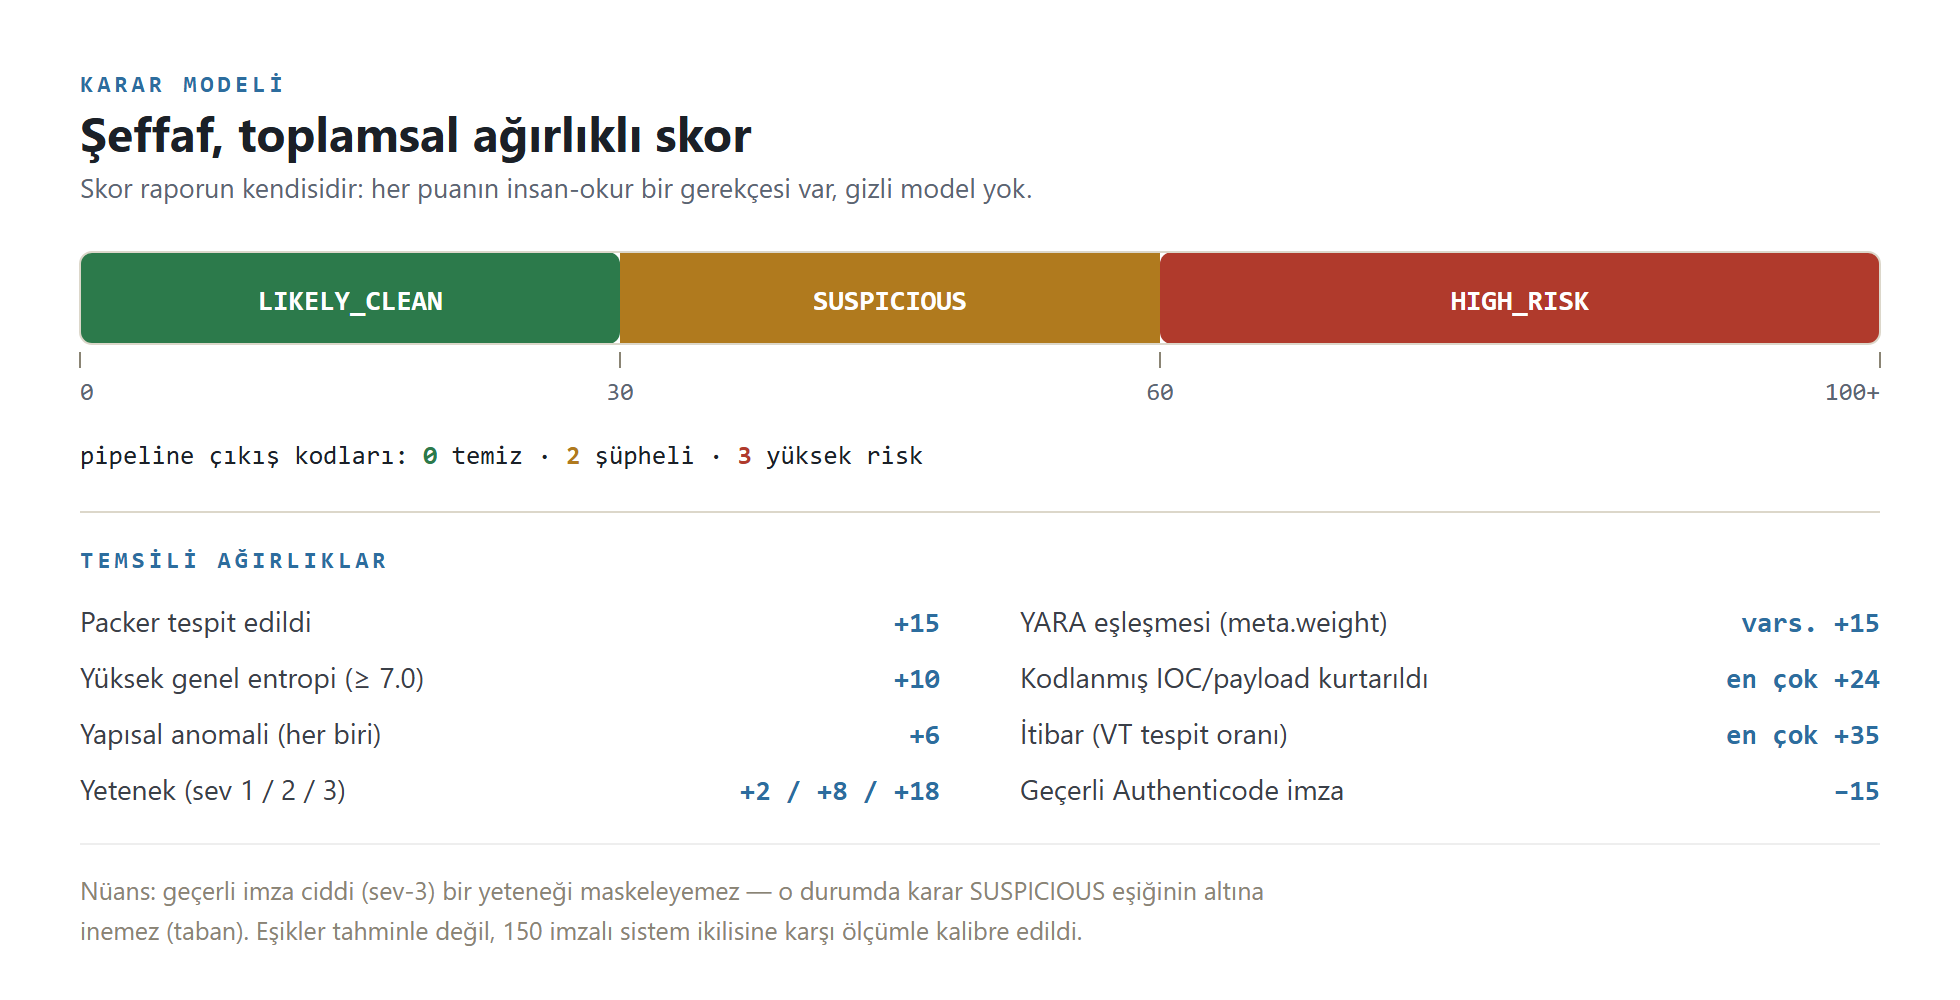
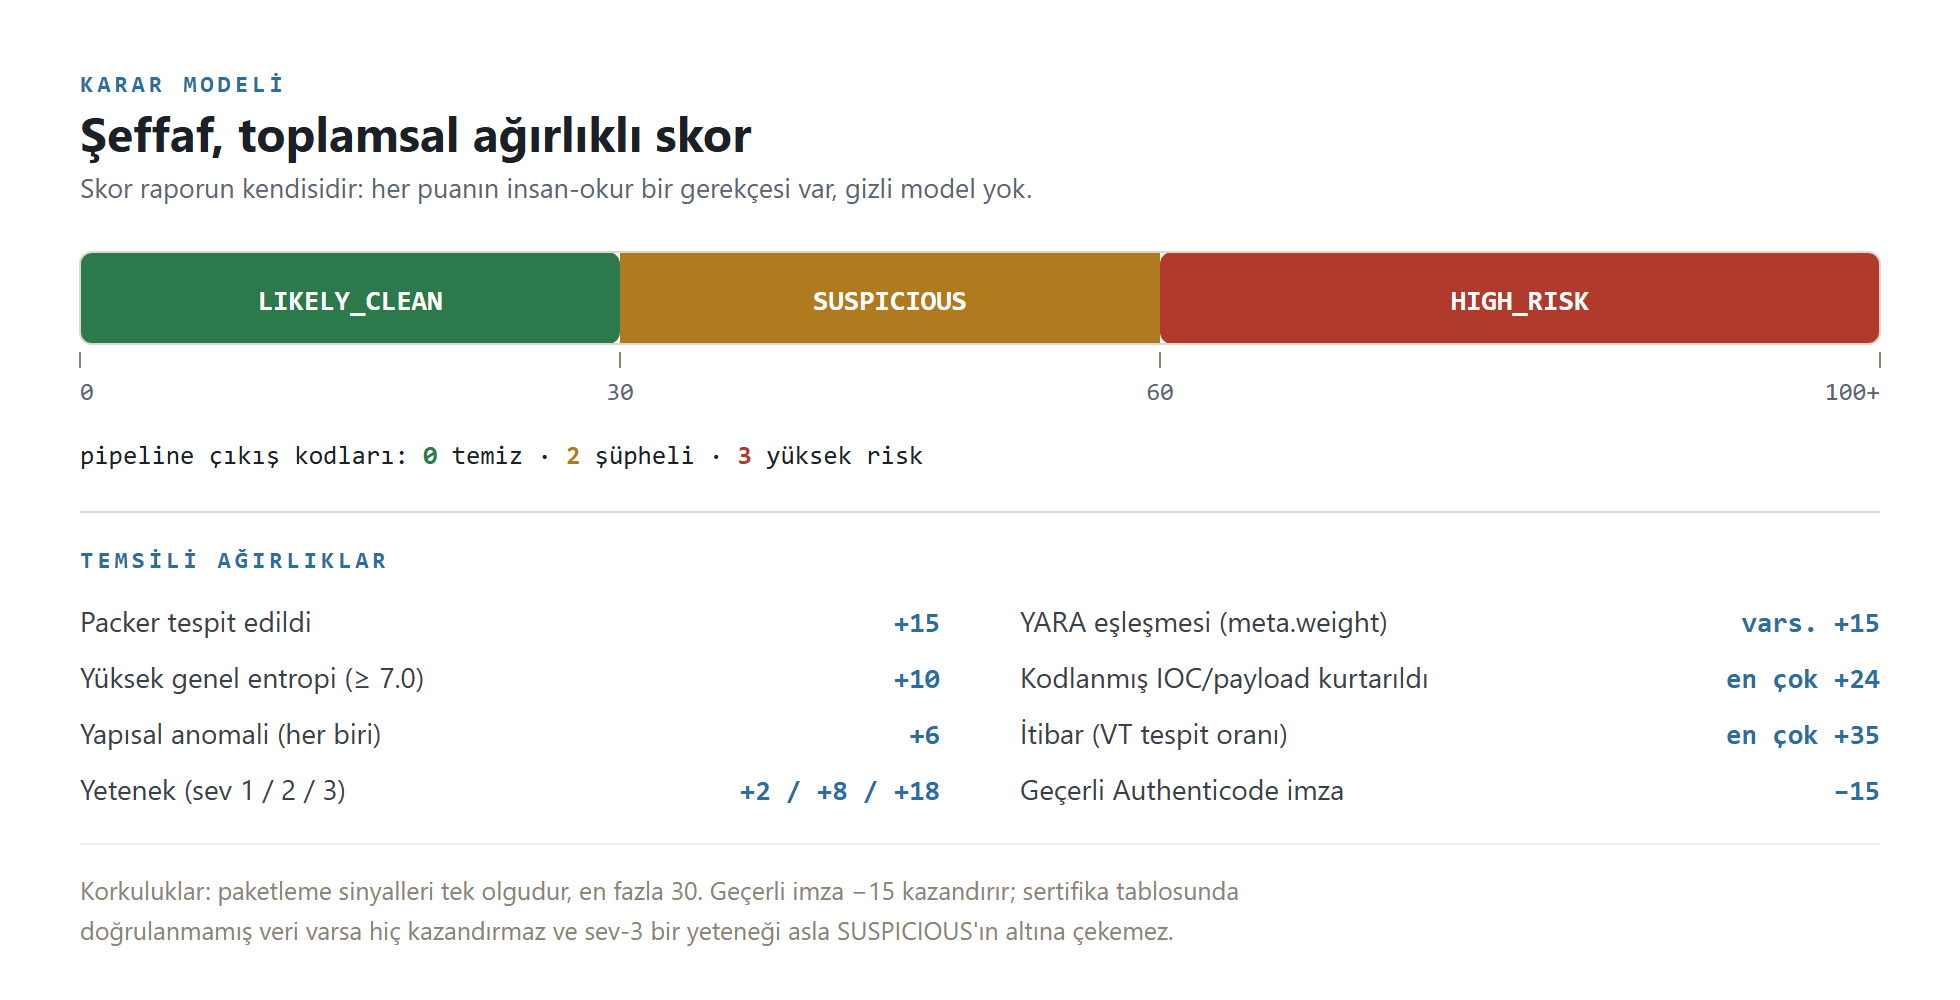
docs: v0.5.2 — honest limitations and corrected claims
- README: "What gokdogan does not do" (static-only; where capa, FLOSS,
  DIE, PEStudio and AssemblyLine go further; .NET blind spot; unmeasured
  accuracy; Windows-only signature checks; strict certificate-table
  checks)
- remove the false claim that the suite asserts mmc.exe is never
  HIGH_RISK (it never ran it, and it is); document the known FPs
- verdict tables describe the packing cap and signature rules; the -8
  row is gone
- counts, Python 3.10+, diagram footers/notes; CHANGELOG 0.5.2
- bump version to 0.5.2

Changed region(s): [[0.0311, 0.868, 0.6536, 0.961]]

diff --git a/docs/index.html b/docs/index.html
@@ -189,9 +189,9 @@ footer .mono{color:var(--faint)}
     </div>
 
     <div class="stats">
-      <div class="stat"><div class="n">~4.500</div><div class="l">satır Python · 31 modül</div></div>
-      <div class="stat"><div class="n">173</div><div class="l">test · gerçek binary entegrasyonu</div></div>
-      <div class="stat"><div class="n">0</div><div class="l">yanlış-pozitif · 150 temiz binary</div></div>
+      <div class="stat"><div class="n">~4.900</div><div class="l">satır Python · 31 modül</div></div>
+      <div class="stat"><div class="n">207</div><div class="l">test · gerçek binary entegrasyonu</div></div>
+      <div class="stat"><div class="n">0</div><div class="l">config-blob yanlış-pozitifi · 150 temiz binary</div></div>
       <div class="stat"><div class="n">133<span style="font-size:.6em;color:var(--muted)">ms</span></div><div class="l">kodlu string taraması (800 KB)</div></div>
     </div>
   </div>
@@ -364,7 +364,9 @@ footer .mono{color:var(--faint)}
         <tr><td>Capability (şiddet 1 / 2 / 3)</td><td class="num pos">+2 / +8 / +18</td></tr>
         <tr><td>YARA eşleşmesi (kural meta.weight)</td><td class="num pos">+15</td></tr>
         <tr><td>Kurtarılmış kodlu IOC / payload</td><td class="num pos">+24'e kadar</td></tr>
-        <tr><td>Gömülü Authenticode imzası (doğrulanmamış)</td><td class="num neg">−8</td></tr>
+        <tr><td>Geçerli Authenticode imzası (sertifika tablosunda doğrulanmamış veri varsa 0)</td><td class="num neg">−15</td></tr>
+        <tr><td>İmza var ama geçerli değil (self-signed, süresi dolmuş)</td><td class="num">0</td></tr>
+        <tr><td>Paketleme sinyalleri birlikte (packer, entropi, packer YARA, stub)</td><td class="num">en fazla 30</td></tr>
       </table>
     </div>
     <p class="sec-intro" style="margin-top:20px">Eşikler: <b style="font-family:var(--mono)">SUSPICIOUS ≥ 30</b>,
@@ -378,10 +380,10 @@ footer .mono{color:var(--faint)}
     <span class="eyebrow">Test &amp; teknoloji</span>
     <h2>Doğrulama ve yığın</h2>
     <div class="grid2">
-      <div class="card"><span class="k">173 test · ~1.900 satır</span><h3>Gerçek binary'lere karşı</h3>
-        <p>Birim testleri her analizciyi sentetik girdilerle izole eder (elle üretilmiş XOR/base64 payload'ları, sahte PE tamponları, ekilmiş entropi adaları). Entegrasyon paketi tüm boru hattını <span class="mono">notepad.exe</span>, <span class="mono">kernel32.dll</span>, <span class="mono">mmc.exe</span>'ye karşı çalıştırır ve stok binary'lerin asla HIGH_RISK almadığını doğrular. Ağ kodu enjekte HTTP mock'larıyla test edilir — gerçek dış çağrı yok.</p></div>
+      <div class="card"><span class="k">207 test · ~2.400 satır</span><h3>Gerçek binary'lere karşı</h3>
+        <p>Birim testleri her analizciyi sentetik girdilerle izole eder (elle üretilmiş XOR/base64 payload'ları, sahte PE tamponları, ekilmiş entropi adaları). Entegrasyon paketi tüm boru hattını <span class="mono">notepad.exe</span> ve <span class="mono">kernel32.dll</span>'e karşı çalıştırır ve HIGH_RISK almadıklarını doğrular. Bilinen iki yanlış pozitif (<span class="mono">mmc.exe</span>, imzalı <span class="mono">chrome.exe</span> HIGH_RISK çıkıyor) xfail testleri olarak görünür tutulur. Ağ kodu enjekte HTTP mock'larıyla test edilir — gerçek dış çağrı yok.</p></div>
       <div class="card"><span class="k">Yığın</span><h3>Ağır bağımlılık yok</h3>
-        <p class="stack"><b>Python 3.12</b> · <b>pefile</b> — PE parse<br>
+        <p class="stack"><b>Python 3.10+</b> · <b>pefile</b> — PE parse<br>
         <b>ppdeep</b> — saf-Python ssdeep<br>
         opsiyonel <b>yara-python</b>, <b>py-tlsh</b><br>
         reputation için standart kütüphane <b>urllib</b><br>

diff --git a/gokdogan/__init__.py b/gokdogan/__init__.py
@@ -5,4 +5,4 @@ packer indicators, classified strings, import-based capabilities,
 YARA matches) and produces a weighted triage verdict.
 """
 
-__version__ = "0.5.1"
+__version__ = "0.5.2"

diff --git a/README.md b/README.md
@@ -3,7 +3,7 @@
 [![tests](https://github.com/IlkerUnver00/gokdogan-triage/actions/workflows/ci.yml/badge.svg)](https://github.com/IlkerUnver00/gokdogan-triage/actions/workflows/ci.yml)
 [![release](https://img.shields.io/github/v/release/IlkerUnver00/gokdogan-triage?label=release)](https://github.com/IlkerUnver00/gokdogan-triage/releases)
 [![PyPI](https://img.shields.io/pypi/v/gokdogan-triage?label=pypi)](https://pypi.org/project/gokdogan-triage/)
-[![python](https://img.shields.io/badge/python-3.12-blue)](https://www.python.org/)
+[![python](https://img.shields.io/badge/python-3.10%2B-blue)](https://www.python.org/)
 [![ruff](https://img.shields.io/badge/lint-ruff-orange)](https://docs.astral.sh/ruff/)
 [![license](https://img.shields.io/badge/license-MIT-green)](#license)
 
@@ -107,7 +107,7 @@ attaches both to a GitHub Release automatically.
 
 ### From PyPI
 
-If you already have Python 3.12+, install the published package:
+If you already have Python 3.10+, install the published package:
 
 ```bash
 pip install gokdogan-triage
@@ -357,17 +357,60 @@ gokdogan/
   - [x] pluggable family config extractors (Discord/Telegram/stager URLs)
   - [x] FastAPI upload-and-triage service; wheel-packaged rules + Dockerfile
 
+## What gokdogan does not do
+
+gokdogan is a fast first-pass triage layer. It does not replace the tools
+analysts already rely on, and its edges are worth stating plainly:
+
+- **Static only.** It never runs the sample, so anything visible only at
+  runtime (unpacked payloads, decrypted configs, network behaviour) is out of
+  reach. Packing signals are capped at the `SUSPICIOUS` threshold, so packing
+  alone can raise a sample to `SUSPICIOUS` at most, never to `HIGH_RISK`; what
+  the packed payload does is not analysed. For behaviour, use a sandbox such
+  as CAPE.
+- **Not capa.** Capabilities come from import-table and string evidence with
+  minimum hit counts, not from capa's rule engine over disassembled code. capa
+  sees far more: function-level features, .NET metadata, sandbox reports.
+- **Not FLOSS.** Encoded-string recovery covers single-byte XOR/ADD/ROL,
+  Base64/hex and simple stack strings. It does not emulate decoding routines
+  the way FLOSS does.
+- **Not Detect It Easy or PEStudio.** Packer and compiler identification is
+  shallower than DIE's signature database, and PEStudio shows more indicators
+  interactively.
+- **.NET is a blind spot.** Managed assemblies and common obfuscators are
+  detected, but import-based capability analysis sees nothing inside managed
+  code.
+- **Accuracy is not measured yet.** Weights and thresholds are hand-set and
+  checked against clean system binaries; recall and precision on real malware
+  have not been measured. Two known false positives are kept visible in the
+  test suite: a stock `mmc.exe` and a validly signed `chrome.exe` both score
+  `HIGH_RISK`. Treat the verdict as a prioritisation signal.
+- **Signature verification is Windows-only.** Elsewhere the Authenticode
+  status is `unavailable`, so the same file can score differently.
+- **Certificate-table checks are deliberately strict.** Anything in the
+  Authenticode certificate table beyond the signature itself (16 bytes or
+  more) is reported and cancels the signature credit, including a second,
+  non-signature entry a vendor put there on purpose. One legitimate forensics
+  DLL tested carries 512 such bytes. Data hidden inside the signature's own
+  unauthenticated attributes is not inspected.
+- **Not a platform.** For queues, dozens of file formats and multi-engine
+  pipelines, use AssemblyLine, Strelka or Karton/MWDB. gokdogan is one CLI.
+
 ## Testing
 
 ```bash
 pytest -v
 ```
 
-Over 100 tests: unit tests cover each analyzer in isolation with synthetic
-inputs, while the integration suite runs the full pipeline against real
-system binaries (`notepad.exe`, `kernel32.dll`, `mmc.exe`) and asserts that
-stock Microsoft binaries never score `HIGH_RISK` and never trip the
-dropper / embedded-config / phantom-string false positives.
+207 tests: unit tests cover each analyzer in isolation with synthetic
+inputs. The integration suite runs the full pipeline against real system binaries
+(`notepad.exe`, `kernel32.dll`) and asserts they never score `HIGH_RISK`
+and never trip the dropper / embedded-config / phantom-string false
+positives. Two known false positives are kept visible as `xfail`
+tests: a stock `mmc.exe` and a validly signed `chrome.exe` both score
+`HIGH_RISK`, because large legitimate programs import enough APIs for
+several capability rules to stack. That is a calibration problem for a
+measured benchmark, not something to hand-tune against two files.
 
 ## License
 

diff --git a/CHANGELOG.md b/CHANGELOG.md
@@ -4,6 +4,74 @@ All notable changes to **gokdogan** are documented here. The format follows
 [Keep a Changelog](https://keepachangelog.com/), and the project uses
 [Semantic Versioning](https://semver.org/).
 
+## [0.5.2] — Unreleased
+
+Credibility pass: correctness fixes an expert reviewer would catch, hardening
+against inputs an attacker controls, and an honest account of what the tool
+does not do. Every change below was attacked by independent reviewers before
+release; their bypasses are now regression tests.
+
+### Fixed
+- **Certificate-table data (CVE-2013-3900).** Data placed in the Authenticode
+  certificate table was treated as "just the signature", so a 3CX-style
+  payload stayed invisible and could still earn the valid-signature credit.
+  The table is now parsed: only the first revision-2.0 PKCS_SIGNED_DATA entry
+  is the signature, and only up to the real end of its blob (a small BER walker
+  follows indefinite lengths). Bytes after it, every other entry and any tail
+  count as unauthenticated. From 16 bytes on they raise an anomaly and cancel
+  the credit; zero fill and stray alignment bytes do not.
+- **Crash on a malformed header.** A PE declaring fewer than 15 data
+  directories could crash triage (and abort a batch run). Directory lookups
+  are now bounds-checked.
+- **No credit for signatures that are not valid.** A self-signed, expired or
+  unverified signature took 8 points off, and anyone can self-sign. It now
+  earns nothing, with a 0-point line saying why.
+- **Rich header product ids.** The table mislabelled most entries (0x91
+  `Linker900` showed as "linker 8.00 (VS2005)", 0x5D `Implib710` as a linker)
+  and had none of the VS2015–2022 ids. It now covers 0x00–0x10E with toolset
+  eras.
+- **Packing counted several times over.** Packer name, high entropy, packer
+  YARA rules and unpacking-stub anomalies describe one fact; summed, they put
+  a plain UPX-packed file at `HIGH_RISK` with no behavioural evidence. The
+  group is now capped at the `SUSPICIOUS` threshold, and membership is decided
+  by fixed prefixes, so an attacker-named resource cannot pull real dropper
+  evidence under the cap.
+- **.NET assemblies no longer look packed.** A structurally valid IL-only
+  assembly (COR20 header, `BSJB` metadata, IL-only flag) that imports only
+  `mscoree!_CorExeMain` no longer raises the low-import anomaly or the packer's
+  tiny-import heuristic. A bogus CLR header on a native file does not qualify.
+- **Clustering.** A shared imphash or impfuzzy no longer links .NET assemblies
+  or packer stubs, whose import tables are generic, and link reasons are no
+  longer lost when clusters merge.
+- **MISP export.** Only the sample's own file hashes and the network IOCs it
+  hid or configured (decoded strings, extracted config) are marked `to_ids`.
+  Filenames, fuzzy hashes, plaintext strings and the authentihash (identical
+  to the genuine vendor file's for a padded-certificate sample) are context.
+- **HTML report:** a tampered or revoked signature now renders red (the CSS
+  variable it used was undefined).
+- The Windows build passes `--noupx`, so the bundled binaries are never
+  UPX-compressed.
+
+### Documentation
+- New README section, "What gokdogan does not do": static-only; where capa,
+  FLOSS, Detect It Easy, PEStudio and AssemblyLine go further; the .NET blind
+  spot; unmeasured accuracy; Windows-only signature verification; strict
+  certificate-table checks.
+- The docs said the integration suite asserts `mmc.exe` never scores
+  `HIGH_RISK`. It never ran `mmc.exe`, and `mmc.exe` does score `HIGH_RISK`.
+  The claim is corrected, and two known false positives (`mmc.exe`, a signed
+  `chrome.exe`) are kept visible as `xfail` tests until a measured
+  recalibration fixes them.
+- Verdict tables describe the packing cap and the signature rules; counts and
+  the Python requirement (3.10+) corrected everywhere.
+
+### CI
+- Tests run on Python 3.10, 3.11 and 3.12.
+
+### Tests
+- 174 → 207 tests: 204 passing, 2 known-false-positive `xfail`, 1 skipped
+  (optional `py-tlsh` not installed).
+
 ## [0.5.1] — 2026-09-16
 
 Publishability audit pass — detection hardening, packaging, and distribution.

diff --git a/MIMARI.md b/MIMARI.md
@@ -8,8 +8,8 @@
 örneği **hiç çalıştırmadan** statik özelliklerini çıkarır ve şeffaf, ağırlıklı
 bir verdikt üretir: `LIKELY_CLEAN`, `SUSPICIOUS` veya `HIGH_RISK`.
 
-- 31 odaklı modülde **~4.500 satır** Python
-- **~1.900 satır** test · **173 test** · gerçek binary entegrasyon paketi
+- 31 odaklı modülde **~4.900 satır** Python
+- **~2.400 satır** test · **207 test** · gerçek binary entegrasyon paketi
 - Zorunlu bağımlılık: `pefile`, `ppdeep` · opsiyonel: `yara-python`, `py-tlsh`
 
 Bu belge motorun *nasıl ve neden* böyle kurulduğunu anlatır. Kullanım için
@@ -177,7 +177,8 @@ Varsayılan kapalıdır, yalnızca SHA-256 gönderir (asla dosya), anahtarsız
        alt="gokdogan verdikt modeli: LIKELY_CLEAN / SUSPICIOUS / HIGH_RISK spektrumu, eşikler ve temsili toplamsal ağırlıklar">
 </p>
 
-Skorlama bilinçli olarak şeffaf ve toplamsaldır. Temsili ağırlıklar:
+Skorlama bilinçli olarak şeffaf ve toplamsaldır; tablonun son satırları iki
+korkuluğu gösterir. Temsili ağırlıklar:
 
 | Sinyal | Puan |
 |---|---|
@@ -187,7 +188,9 @@ Skorlama bilinçli olarak şeffaf ve toplamsaldır. Temsili ağırlıklar:
 | Capability (şiddet 1 / 2 / 3) | +2 / +8 / +18 |
 | YARA eşleşmesi | kural `meta.weight`, varsayılan +15 |
 | Kurtarılmış kodlu IOC/payload | +24'e kadar |
-| Gömülü Authenticode imzası (doğrulanmamış) | −8 |
+| Geçerli Authenticode imzası | −15; sertifika tablosunda doğrulanmamış veri varsa 0 |
+| İmza var ama geçerli değil (self-signed, süresi dolmuş, doğrulanmamış) | 0 |
+| Paketleme sinyalleri birlikte (packer, entropi, packer YARA, stub anomalileri) | en fazla 30 |
 
 Eşikler: **`SUSPICIOUS` ≥ 30**, **`HIGH_RISK` ≥ 60**. Tam döküm her raporda
 basılır — analist bir örneğin neden o skoru aldığını tam olarak görür ve YARA
@@ -199,19 +202,24 @@ Boru hattı dostu çıkış kodları: `0` temiz · `2` şüpheli · `3` yüksek 
 
 ## 7. Test
 
-**173 test / ~1.900 satır.** Birim testleri her analizciyi sentetik girdilerle
+**207 test / ~2.400 satır.** Birim testleri her analizciyi sentetik girdilerle
 izole eder (elle üretilmiş XOR/base64 payload'ları, sahte PE tamponları,
-ekilmiş entropi adaları). Entegrasyon paketi tüm boru hattını gerçek sistem
-binary'lerine (`notepad.exe`, `kernel32.dll`, `mmc.exe`) karşı çalıştırır ve
-stok Microsoft binary'lerinin asla `HIGH_RISK` almadığını, dropper /
-gömülü-config / hayali-string yanlış-pozitiflerine takılmadığını doğrular. Ağ
-kodu enjekte HTTP mock'larıyla test edilir — gerçek dış çağrı yoktur.
+ekilmiş entropi adaları, sentetik sertifika tabloları). Entegrasyon paketi tüm
+boru hattını gerçek sistem binary'lerine (`notepad.exe`, `kernel32.dll`) karşı
+çalıştırır ve bunların asla `HIGH_RISK` almadığını, dropper / gömülü-config /
+hayali-string yanlış-pozitiflerine takılmadığını doğrular. Bilinen iki yanlış
+pozitif bilerek görünür tutulur (`xfail` testleri): stok `mmc.exe` ve
+geçerli imzalı `chrome.exe` `HIGH_RISK` çıkar; çünkü büyük meşru programlar,
+birkaç yetenek kuralının üst üste binmesine yetecek kadar API içe aktarır. Bu,
+iki dosyaya göre elle ayarlanacak bir şey değil, ölçülmüş bir benchmark'la
+çözülecek bir kalibrasyon sorunudur. Ağ kodu enjekte HTTP mock'larıyla test
+edilir — gerçek dış çağrı yoktur.
 
 ---
 
 ## 8. Teknoloji yığını
 
-Python 3.12 · `pefile` (PE parse) · `ppdeep` (saf-Python ssdeep) · opsiyonel
+Python 3.10+ · `pefile` (PE parse) · `ppdeep` (saf-Python ssdeep) · opsiyonel
 `yara-python`, `py-tlsh` · reputation için standart kütüphane `urllib`. Web
 framework yok, ağır bağımlılık yok — malware-lab akışına giren, kendi kendine
 yeten bir CLI.

diff --git a/ARCHITECTURE.md b/ARCHITECTURE.md
@@ -7,8 +7,8 @@ sky. The package and command are the ASCII `gokdogan`.
 extracts static features — never executing the sample — and produces a
 transparent, weighted verdict: `LIKELY_CLEAN`, `SUSPICIOUS`, or `HIGH_RISK`.
 
-- **~4,500 lines** of Python across 31 focused modules
-- **~1,900 lines** of tests · **173 tests** · real-binary integration suite
+- **~4,900 lines** of Python across 31 focused modules
+- **~2,400 lines** of tests · **207 tests** · real-binary integration suite
 - Hard deps: `pefile`, `ppdeep` · optional: `yara-python`, `py-tlsh`
 
 This document explains *how it is built and why*. For usage, see [README.md](README.md).
@@ -175,7 +175,8 @@ the CLI layer so the `triage()` engine stays provably offline.
        alt="gokdogan verdict model: the LIKELY_CLEAN / SUSPICIOUS / HIGH_RISK spectrum with thresholds and representative additive weights">
 </p>
 
-Scoring is deliberately transparent and additive. Representative weights:
+Scoring is deliberately transparent and additive, with two guard rails in the
+last rows below. Representative weights:
 
 | Signal | Points |
 |---|---|
@@ -185,7 +186,9 @@ Scoring is deliberately transparent and additive. Representative weights:
 | Capability (severity 1 / 2 / 3) | +2 / +8 / +18 |
 | YARA match | rule `meta.weight`, default +15 |
 | Encoded IOC/payload recovered | up to +24 |
-| Embedded Authenticode signature (unverified) | −8 |
+| Valid Authenticode signature | −15, or 0 if the certificate table carries unauthenticated data |
+| Signature present but not valid (self-signed, expired, unverified) | 0 |
+| Packing signals together (packer, entropy, packer YARA, stub anomalies) | capped at 30 |
 
 Thresholds: **`SUSPICIOUS` ≥ 30**, **`HIGH_RISK` ≥ 60**. The full breakdown is
 printed in every report — the analyst can see exactly why a sample scored the
@@ -197,21 +200,26 @@ Pipeline-friendly exit codes: `0` clean · `2` suspicious · `3` high risk.
 
 ## 7. Testing
 
-**173 tests / ~1,900 lines.** Unit tests cover each analyzer in isolation with
+**207 tests / ~2,400 lines.** Unit tests cover each analyzer in isolation with
 synthetic inputs (crafted XOR/base64 payloads, fake PE buffers, planted
-entropy islands). The integration suite runs the full pipeline against real
-system binaries (`notepad.exe`, `kernel32.dll`, `mmc.exe`) and asserts that
-stock Microsoft binaries never score `HIGH_RISK` and never trip the
-dropper / embedded-config / phantom-string false positives. Network code is
-tested with injected HTTP mocks — no real external calls.
+entropy islands, synthetic certificate tables). The integration suite runs the full pipeline against real system binaries
+(`notepad.exe`, `kernel32.dll`) and asserts they never score `HIGH_RISK`
+and never trip the dropper / embedded-config / phantom-string false
+positives. Two known false positives are kept visible as `xfail`
+tests: a stock `mmc.exe` and a validly signed `chrome.exe` both score
+`HIGH_RISK`, because large legitimate programs import enough APIs for
+several capability rules to stack. That is a calibration problem for a
+measured benchmark, not something to hand-tune against two files. Network
+code is tested with injected HTTP mocks — no real external calls.
 
 ---
 
 ## 8. Tech stack
 
-Python 3.12 · `pefile` (PE parsing) · `ppdeep` (pure-Python ssdeep) ·
+Python 3.10+ · `pefile` (PE parsing) · `ppdeep` (pure-Python ssdeep) ·
 optional `yara-python`, `py-tlsh` · standard-library `urllib` for reputation.
-No web framework, no heavyweight dependencies — a self-contained CLI that
+No web framework in the core (the upload service is an optional FastAPI extra),
+no heavyweight dependencies — a self-contained CLI that
 drops into a malware-lab workflow.
 
 ---
